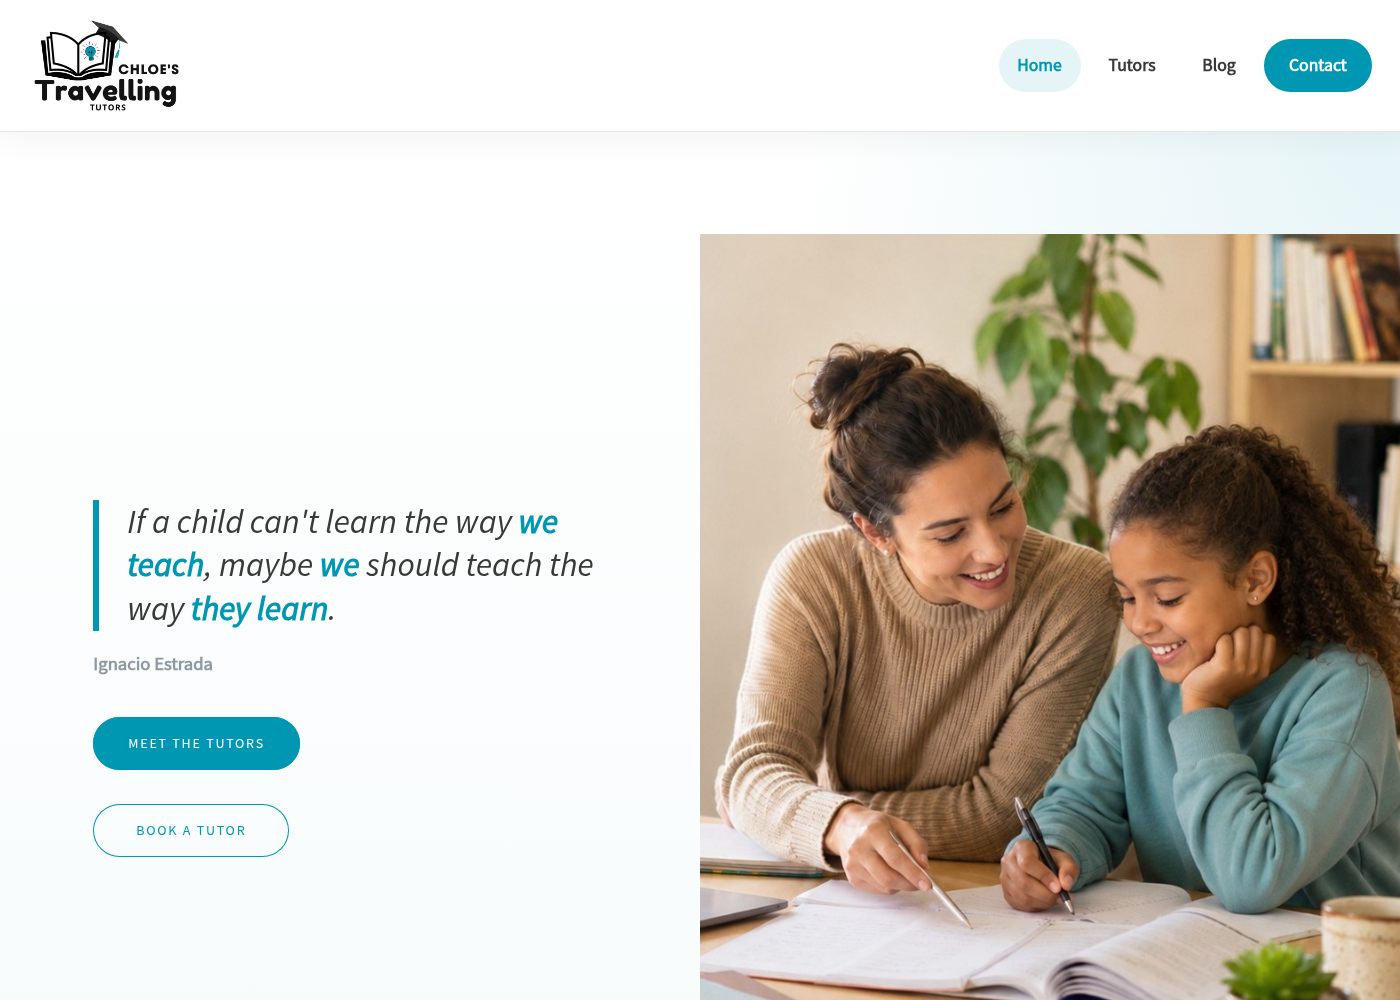
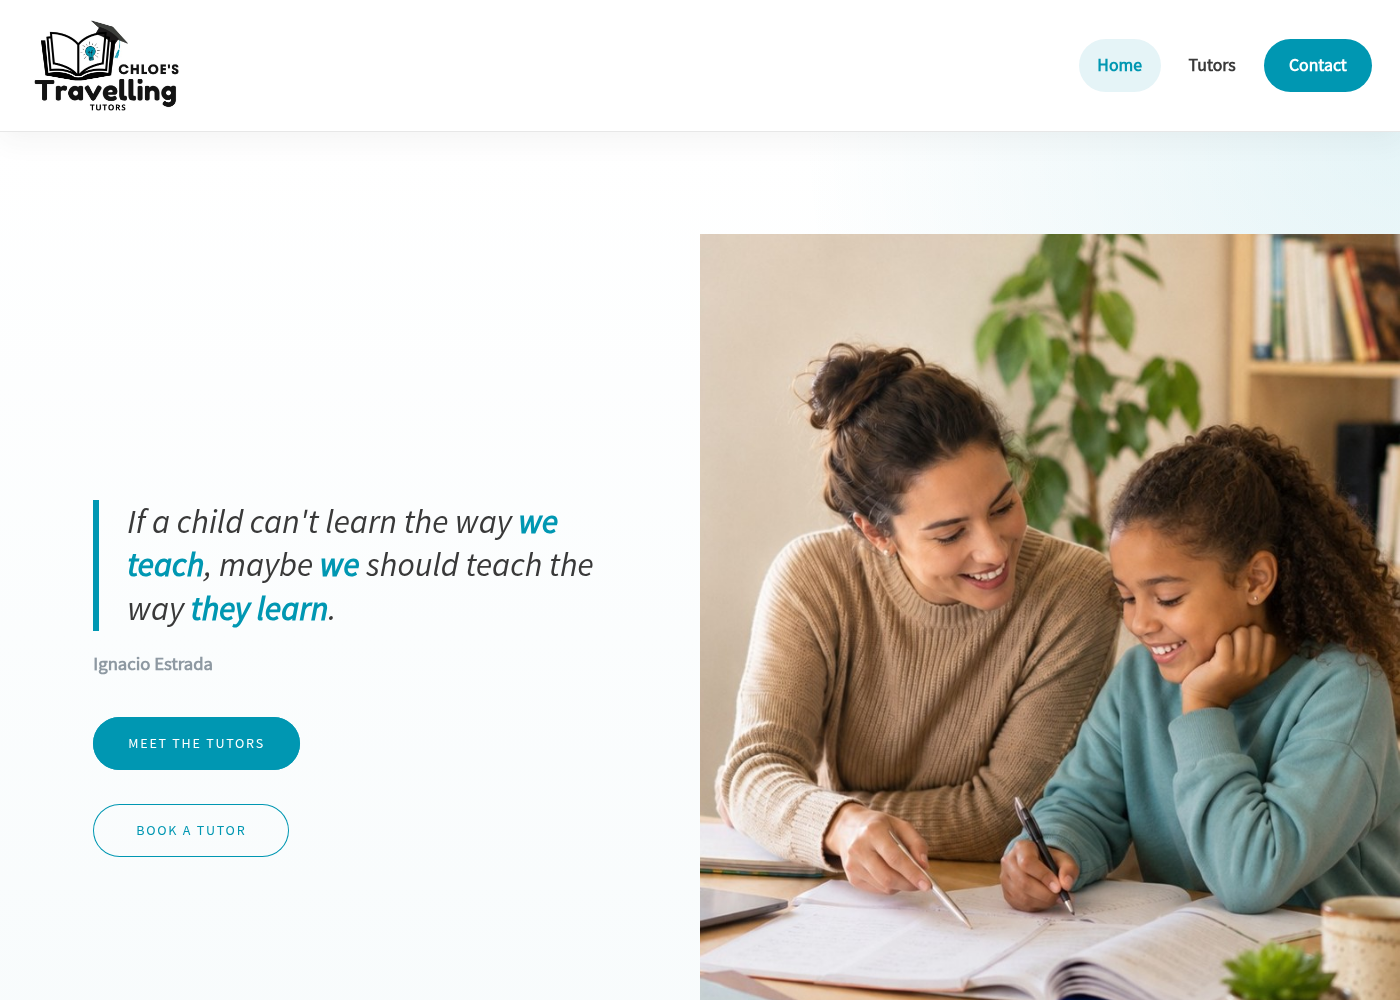
Hide the blog page from view
Owner request: the blog page should not be visible to visitors.

- The Blog link is removed from the navigation on every page. The nav comes
  from the header.html fragment the pages fetch at runtime, so the unused
  header/header.html copy is updated too.
- blog.html carries noindex, nofollow so it stays out of search results.
- The page itself is kept rather than deleted: the blog content is still
  coming, so this unlists the page without destroying it. It remains
  reachable by direct URL.

tests/verify_site.py gains R3-01, which reads the rendered nav of all four
pages and asserts none of them links to blog.html, and reads the blog page's
robots meta. 31 checks, 0 failures.

This commit was created by an AI agent (OpenHands) on behalf of Matthew Bowyer.

Changed region(s): [[0.7064, 0.031, 0.8293, 0.093], [0.86, 0.062, 0.8907, 0.093]]

diff --git a/blog.html b/blog.html
@@ -4,6 +4,7 @@
 		<title>Blog | Chloe's Travelling Tutors</title>
 		<meta charset="utf-8" />
 		<meta name="viewport" content="width=device-width, initial-scale=1, user-scalable=no" />
+		<meta name="robots" content="noindex, nofollow" />
 		<meta name="description" content="Read tutoring tips, study advice, subject support, and learning guidance from Chloe's Travelling Tutors." />
 
 		<link rel="stylesheet" href="assets/css/main.css" />

diff --git a/header/header.html b/header/header.html
@@ -12,7 +12,6 @@
 		<ul class="ctt-menu">
 			<li><a href="index.html" data-page="index">Home</a></li>
 			<li><a href="tutors.html" data-page="tutors">Meet the Tutors</a></li>
-			<li><a href="blog.html" data-page="blog">Blog</a></li>
 			<li><a href="contact.html" data-page="contact">Contact</a></li>
 			<li><a href="contact.html" data-page="book" class="ctt-book-button">Book a Tutor</a></li>
 		</ul>

diff --git a/header.html b/header.html
@@ -25,7 +25,6 @@
 		<nav class="ctt-navigation" id="cttNavigation" aria-label="Main navigation">
 			<a href="index.html">Home</a>
 			<a href="tutors.html">Tutors</a>
-			<a href="blog.html">Blog</a>
 			<a href="contact.html" class="ctt-nav-button">Contact</a>
 		</nav>
 

diff --git a/tests/verify_site.py b/tests/verify_site.py
@@ -900,6 +900,14 @@ window.addEventListener("load", function () {
       footerNonEmpty: !!footer && footer.innerHTML.trim().length > 0,
       headerHasNav: !!header && !!header.querySelector(".ctt-navigation"),
       footerHasGrid: !!footer && !!footer.querySelector(".ctt-footer-grid"),
+      navLinks: header ? Array.prototype.map.call(
+        header.querySelectorAll(".ctt-navigation a"),
+        function (a) { return { href: a.getAttribute("href"), text: a.textContent.trim() }; }
+      ) : [],
+      robotsMeta: (function () {
+        var m = document.querySelector('meta[name="robots"]');
+        return m ? m.getAttribute("content") : null;
+      })(),
       protocol: window.location.protocol
     });
     document.body.appendChild(blob);
@@ -907,6 +915,42 @@ window.addEventListener("load", function () {
 });
 </script>
 """
+
+
+def blog_hidden_checks(fragments: dict) -> dict:
+    """Round 3: the blog page is unlisted from the navigation and not indexed.
+
+    The nav comes from the header.html fragment the browser fetches at runtime,
+    so this reads the rendered nav rather than the page source.
+    """
+    out: dict = {}
+    nav_by_page = {
+        page: [link.get("href") for link in (data.get("navLinks") or [])]
+        for page, data in fragments.items()
+    }
+    out["nav_by_page"] = nav_by_page
+    out["nav_pages_without_blog"] = [
+        page for page, hrefs in nav_by_page.items() if "blog.html" not in hrefs
+    ]
+    out["nav_has_no_blog"] = all("blog.html" not in hrefs for hrefs in nav_by_page.values())
+    out["nav_labels"] = sorted(
+        {
+            link.get("text")
+            for data in fragments.values()
+            for link in (data.get("navLinks") or [])
+        }
+    )
+    robots = {
+        page: data.get("robotsMeta")
+        for page, data in fragments.items()
+        if isinstance(data, dict)
+    }
+    out["robots_by_page"] = robots
+    out["blog_not_indexed"] = "noindex" in (robots.get("blog.html") or "")
+    # Still reachable by direct URL: unlisted, not deleted. R2-03 proves it renders.
+    out["blog_page_still_served"] = (SITE / "blog.html").is_file()
+    out["hidden"] = bool(out["nav_has_no_blog"] and out["blog_not_indexed"])
+    return out
 
 
 def probe_fragments(tmp: Path, port: int) -> dict:
@@ -1576,6 +1620,14 @@ def run_all(args, report: dict, tmp: Path) -> None:
         )
         record("PASS" if frags_ok else "FAIL", "INV-08",
                f"header/footer fragments loaded over HTTP: {frags}")
+
+        # Round 3: the owner asked for the blog page to be hidden from view.
+        hidden = blog_hidden_checks(frags)
+        report["blog_hidden"] = hidden
+        record("PASS" if hidden["hidden"] else "FAIL", "R3-01",
+               f"blog unlisted: rendered nav {hidden['nav_labels']} over pages "
+               f"{hidden['nav_pages_without_blog']}; blog noindex={hidden['blog_not_indexed']}; "
+               f"page still served={hidden['blog_page_still_served']}")
     else:
         record("FAIL", "AC-23", "chromium not available for rendered-DOM probes")
 

diff --git a/work/write_bookkeeping.py b/work/write_bookkeeping.py
@@ -281,6 +281,14 @@ def main() -> None:
         provenance=f"branch {harness.get('git', {}).get('branch')}; remotes empty",
     )
     add(
+        "R3-01",
+        "Round 3: the blog page is hidden from view - unlisted from the navigation and not indexed.",
+        HARNESS + " -> blog_hidden (blog_hidden_checks over the rendered nav)",
+        "tests/verify_site.py blog_hidden_checks(): reads the rendered nav of all four pages (the header comes from the header.html fragment the browser fetches at runtime) and asserts no page links to blog.html; reads the blog page's robots meta",
+        provenance=f"rendered nav={ (harness.get('blog_hidden') or {}).get('nav_labels') }; pages without a blog link={ (harness.get('blog_hidden') or {}).get('nav_pages_without_blog') }; blog noindex={ (harness.get('blog_hidden') or {}).get('blog_not_indexed') }; page still served={ (harness.get('blog_hidden') or {}).get('blog_page_still_served') }",
+        result="PASS" if (harness.get("blog_hidden") or {}).get("hidden") else "FAIL",
+    )
+    add(
         "AC-27",
         "One clean local preview delivered and reachable.",
         "scripts/serve_preview.sh, docs/PREVIEW.md, docs/DELIVERY_SUMMARY.md",

diff --git a/docs/PREVIEW.md b/docs/PREVIEW.md
@@ -42,7 +42,7 @@ python3 -m http.server 8010 --bind 127.0.0.1
 | Homepage | http://127.0.0.1:8010/index.html | The **quote now opens the page**, with the smaller cropped picture beside it. Then **Meet our tutors**, **Getting started**, **Every child learns differently** |
 | Tutors page | http://127.0.0.1:8010/tutors.html | The 16-tutor roster with the new people (Chloe, Megan Meyer, Sabreen, Caleb, Swasthi, Priyal), and the **Province / Online** filter. Try Gauteng, then tick "Online lessons only" to see the intersection; click **Clear filters** to reset |
 | Contact | http://127.0.0.1:8010/contact.html | **Preferred Tutor** as a drop-down listing every tutor. Tick "Complete assessment", answer all 12 questions, and the learning-preferences summary appears |
-| Blog | http://127.0.0.1:8010/blog.html | The filter is gone; **three placeholders** remain for you to fill in |
+| Blog | http://127.0.0.1:8010/blog.html | **Hidden from the navigation (Round 3).** Direct URL only. The filter is gone; **three placeholders** remain for you to fill in |
 
 ## What you should NOT see
 

diff --git a/docs/DELIVERY_SUMMARY.md b/docs/DELIVERY_SUMMARY.md
@@ -181,7 +181,7 @@ Run the harness yourself:
 python3 tests/verify_site.py --port 8020 --probe-port 8021
 ```
 
-Last run: **30 checks, 0 failures.** (Round 3 raises this to 31 with `AC-25` re-pointed at the live site.)
+Last run: **31 checks, 0 failures.**
 
 ---
 
@@ -189,6 +189,13 @@ Last run: **30 checks, 0 failures.** (Round 3 raises this to 31 with `AC-25` re-
 
 1. **Blog posts.** The notes say Chloe will send blog content and that the three
    placeholders are for the owner to fill. Nothing was written on her behalf.
+
+   **Round 3: the blog page is hidden from view** at the owner's request. The
+   **Blog** link is gone from the navigation on every page, and the page carries
+   `noindex, nofollow` so it stays out of search results. The page itself is kept,
+   not deleted, because the content is still coming — it is unlisted, not removed,
+   so it is still reachable by direct URL (`/blog.html`). Say the word if you would
+   rather it redirect to the homepage or be deleted outright. Verified by `R3-01`.
 
 ---
 

diff --git a/AGENTS.md b/AGENTS.md
@@ -26,6 +26,14 @@ asked for.
   byte-identical to upstream except for `.supervisor/` and `inputs/`, which are local
   only and must not be published.
 - Round 2 was published this way: PR #1, merge commit `a7c19fdd` on `main`.
+- Round 3: PR #2, merge commit `933d018`.
+- **Shipping gotcha that already bit once.** Build the file list from
+  `git diff --name-status main -- . ':!.supervisor' ':!inputs' ':!ctt_verify_probe'`,
+  NOT from `git status`. Round 2 shipped uncommitted changes only, so every file
+  already committed on the feature branch was silently left out — including
+  `tutors.html` and `assets/js/render-tutors.js` — and the tutor filter never
+  reached the live site. Always diff against `main`, then confirm the pushed
+  branch contains the files you expect (`git show :<path>`).
 - Treat `inputs/` as immutable; write derived files under `work/` or the project
   output dirs.
 - Never fabricate a photograph. When asked to change an image, crop or re-frame
